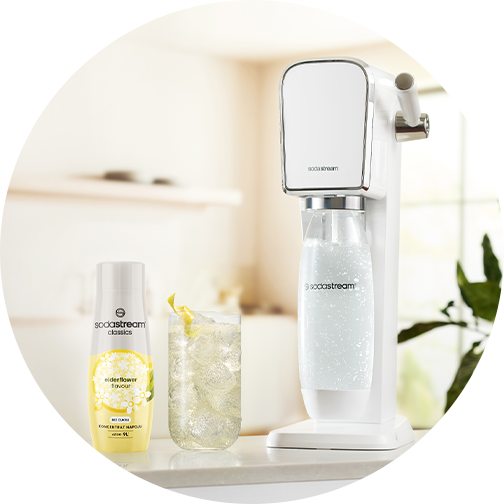
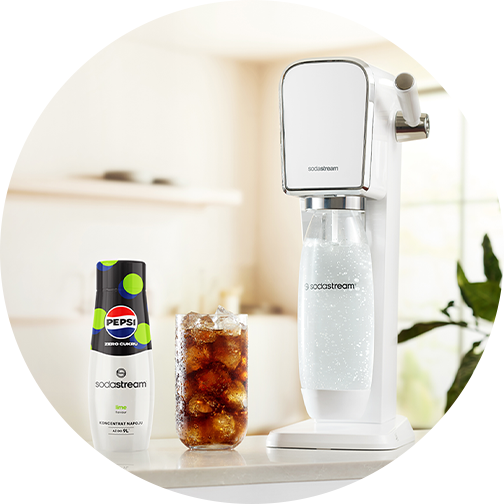
Change slider photo and youtube link

Changed region(s): [[0.1488, 0.506, 0.506, 0.9524]]

diff --git a/src/index.html b/src/index.html
@@ -188,7 +188,7 @@
             title="preference video"
             width="100%"
             height="auto"
-            src="https://www.youtube.com/embed/q5YVc7vCdBA"
+            src="https://www.youtube.com/embed/JJeQbQmPSbM?si=7Ky0xnphFwcnPX48"
             allow="accelerometer; encrypted-media; gyroscope; picture-in-picture"
             allowfullscreen
           ></iframe>
